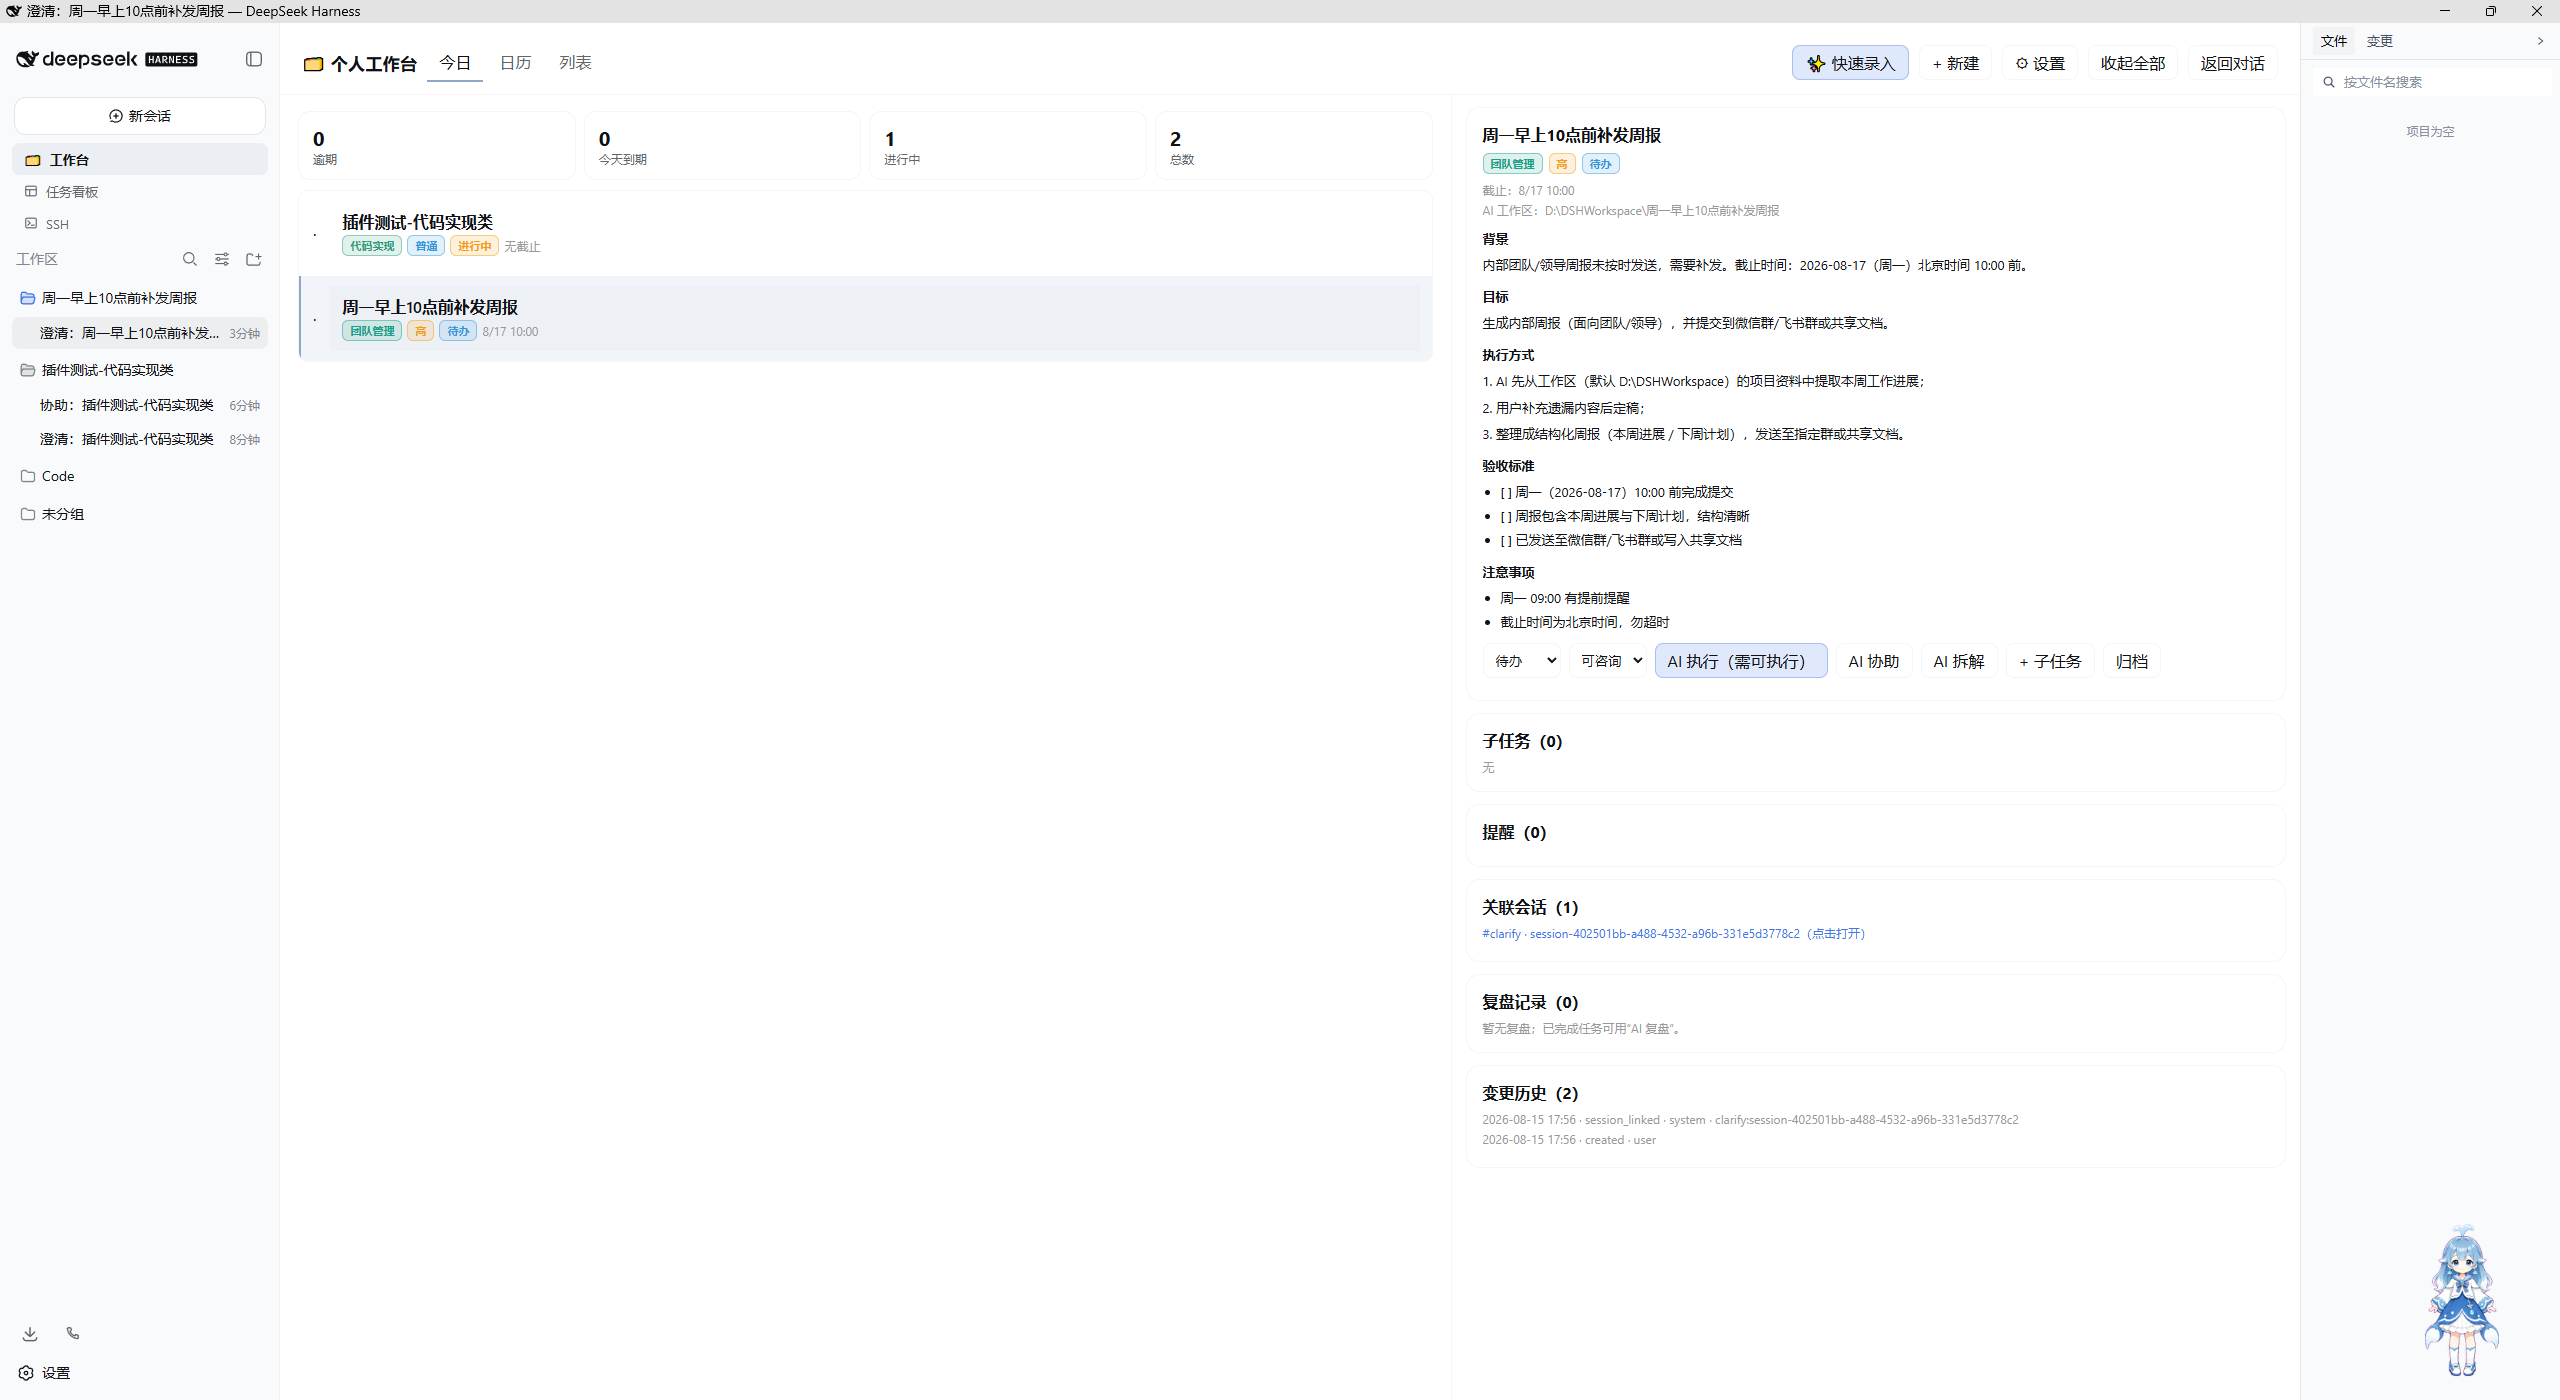
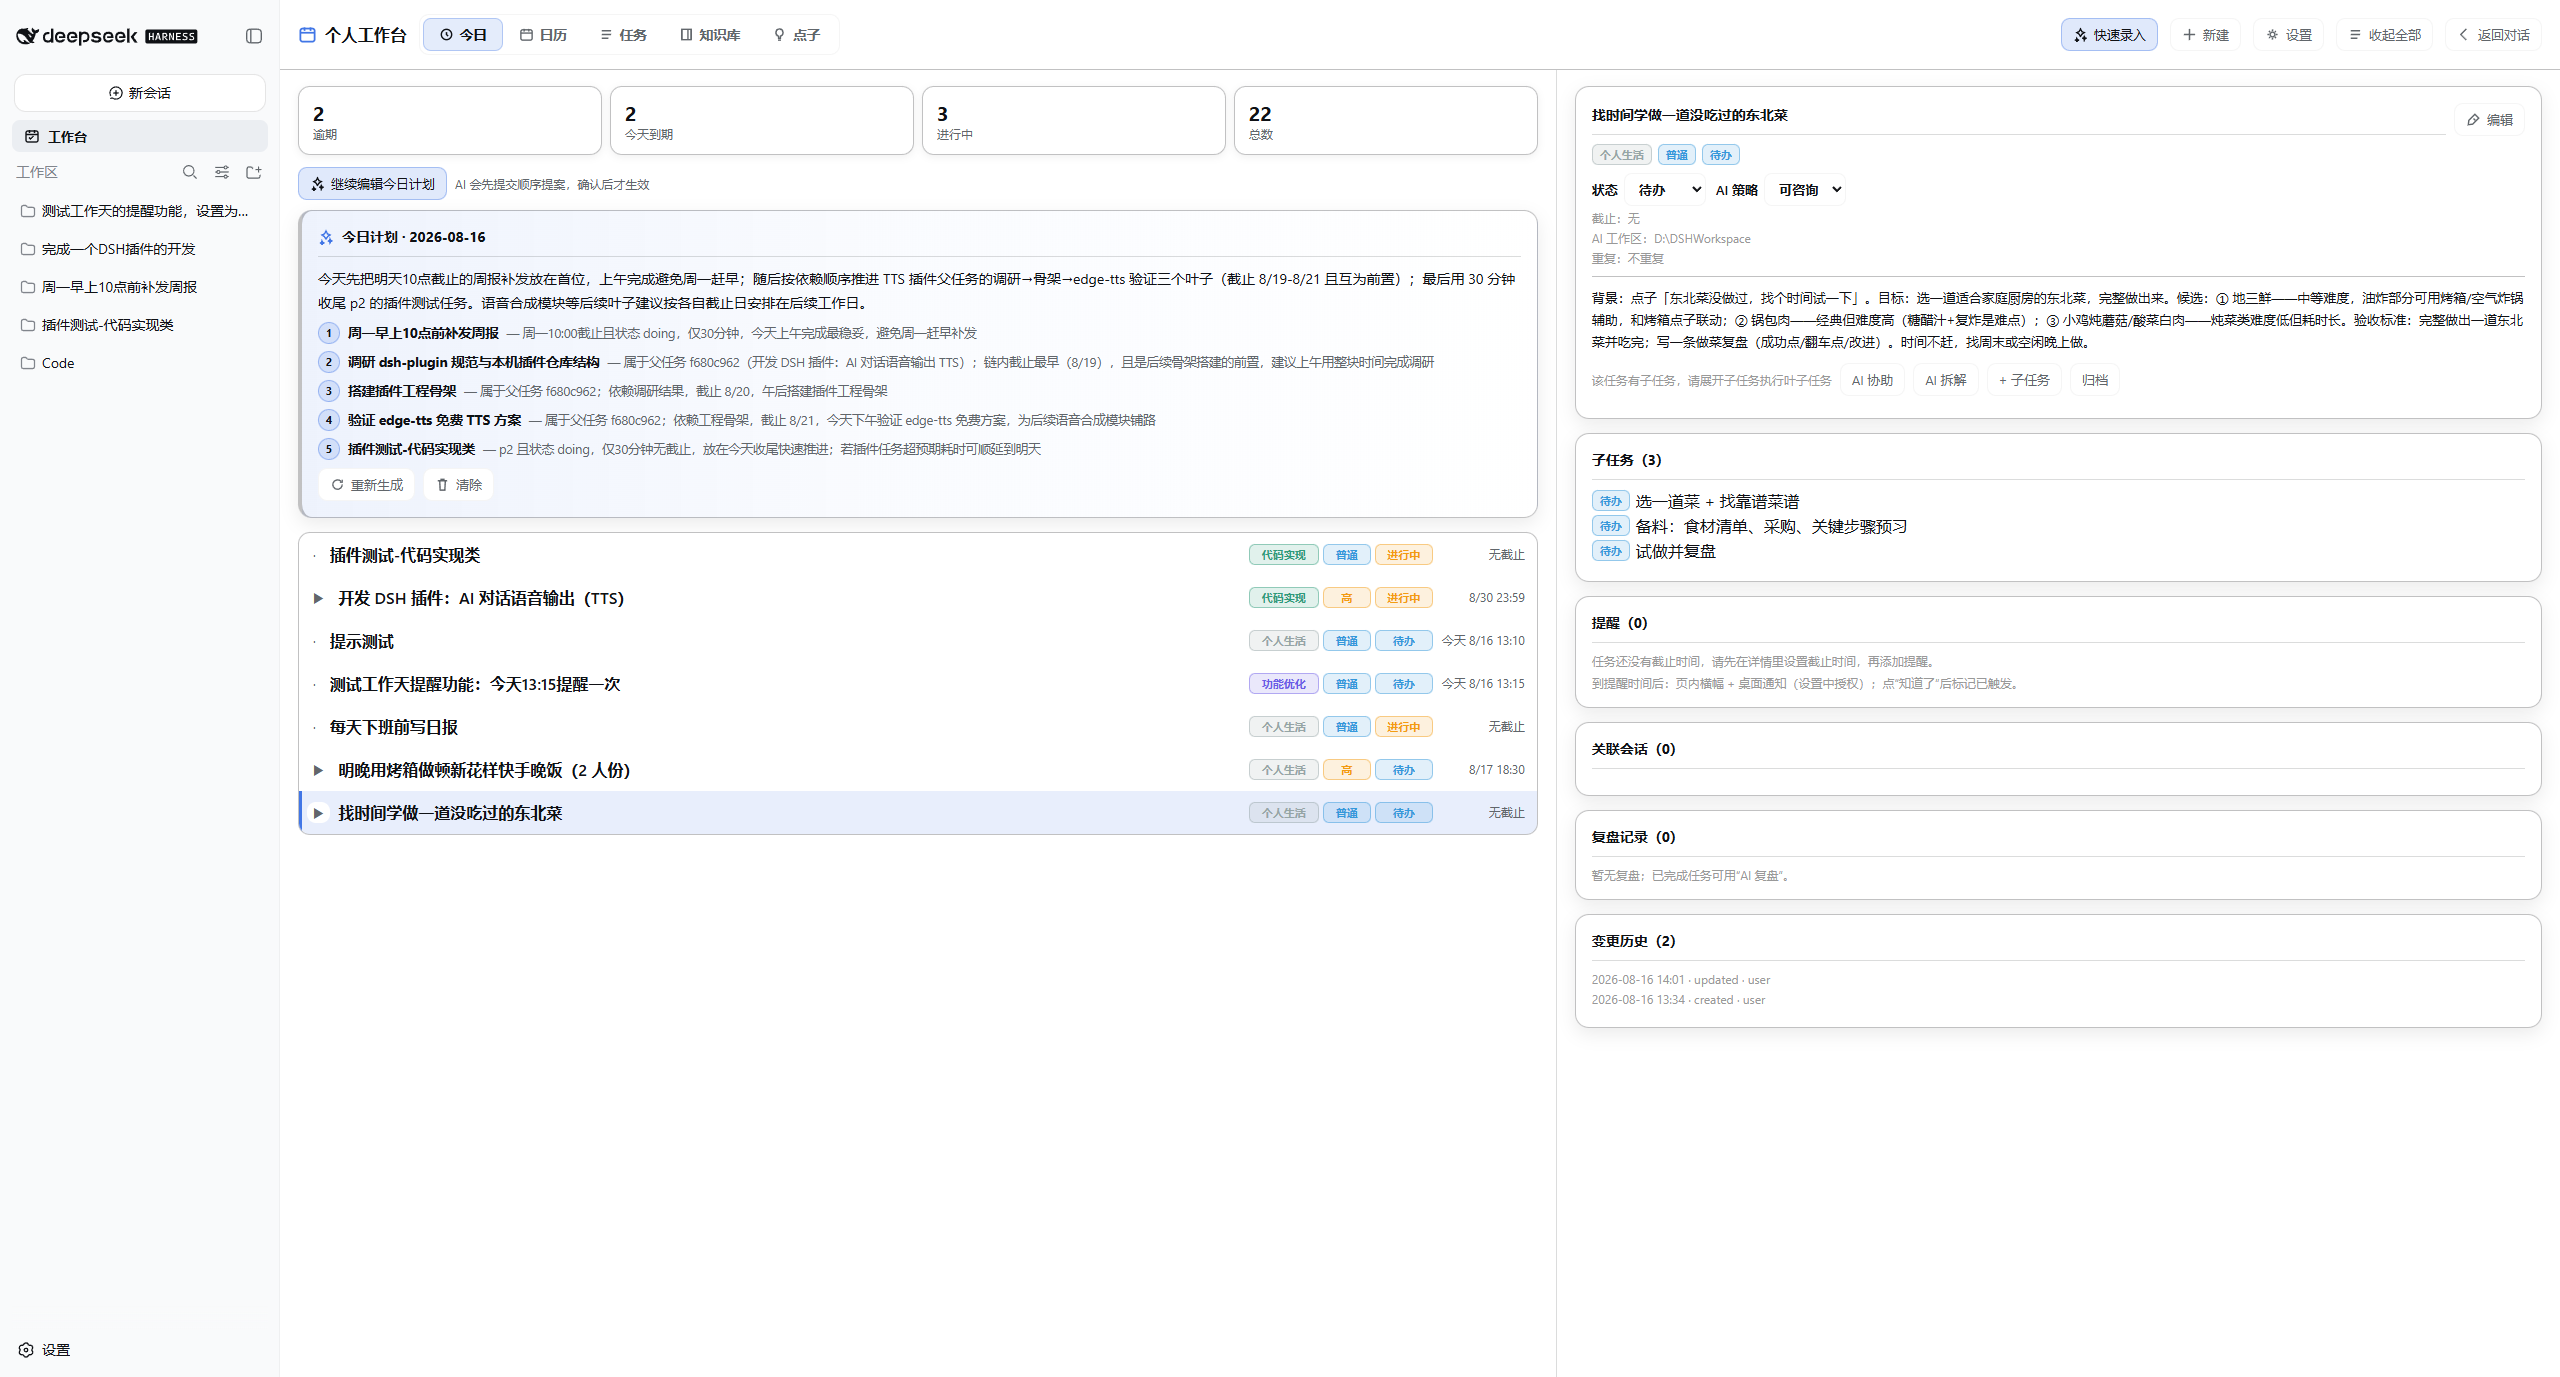
docs: refresh screenshots and roadmap for v1.1.3 release

diff --git a/README.md b/README.md
@@ -26,9 +26,13 @@ Turn your DSH into a **calendar + task list + AI assistant workbench**.
 
 ## 截图
 
-| 主界面 | 澄清会话 | AI 协助 |
+| 主界面 | 日历 | 任务列表 |
 |---|---|---|
-| ![主界面](screenshot/%E4%B8%BB%E7%95%8C%E9%9D%A2.PNG) | ![澄清界面](screenshot/%E6%BE%84%E6%B8%85%E7%95%8C%E9%9D%A2.PNG) | ![AI协助界面](screenshot/AI%E5%8D%8F%E5%8A%A9%E7%95%8C%E9%9D%A2.PNG) |
+| ![主界面](screenshot/%E4%B8%BB%E7%95%8C%E9%9D%A2.PNG) | ![日历](screenshot/%E6%97%A5%E5%8E%86%E9%A1%B5%E9%9D%A2.png) | ![任务列表](screenshot/%E4%BB%BB%E5%8A%A1%E5%88%97%E8%A1%A8%E7%95%8C%E9%9D%A2.png) |
+
+| 知识库 | 点子 | 点子王 |
+|---|---|---|
+| ![知识库](screenshot/%E7%9F%A5%E8%AF%86%E5%BA%93%E7%95%8C%E9%9D%A2.png) | ![点子](screenshot/%E7%82%B9%E5%AD%90%E7%95%8C%E9%9D%A2.png) | ![点子王](screenshot/%E7%82%B9%E5%AD%90%E7%8E%8B.png) |
 
 ## 功能清单
 
@@ -165,8 +169,8 @@ Then restart `dsh web` and hard-refresh the browser.
 ## Roadmap
 
 - [x] V2: AI prioritization for any date, OS-level notifications, daily/weekly reports
-- [ ] V2: recurring tasks & automation, personal knowledge base / lessons
-- [ ] Future: multi-device sync, drag-and-drop, import/export
+- [x] V2: recurring tasks, personal knowledge base / lessons, ideas & idea clusters
+- [ ] Future: scheduled automation, multi-device sync, drag-and-drop, import/export
 
 ## License
 
